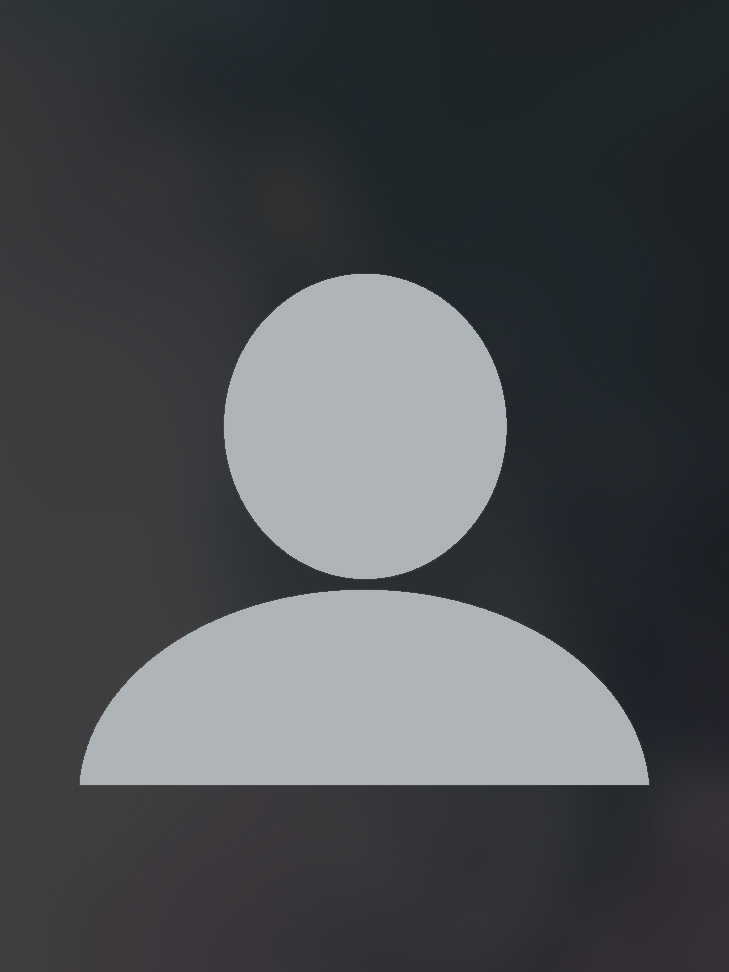
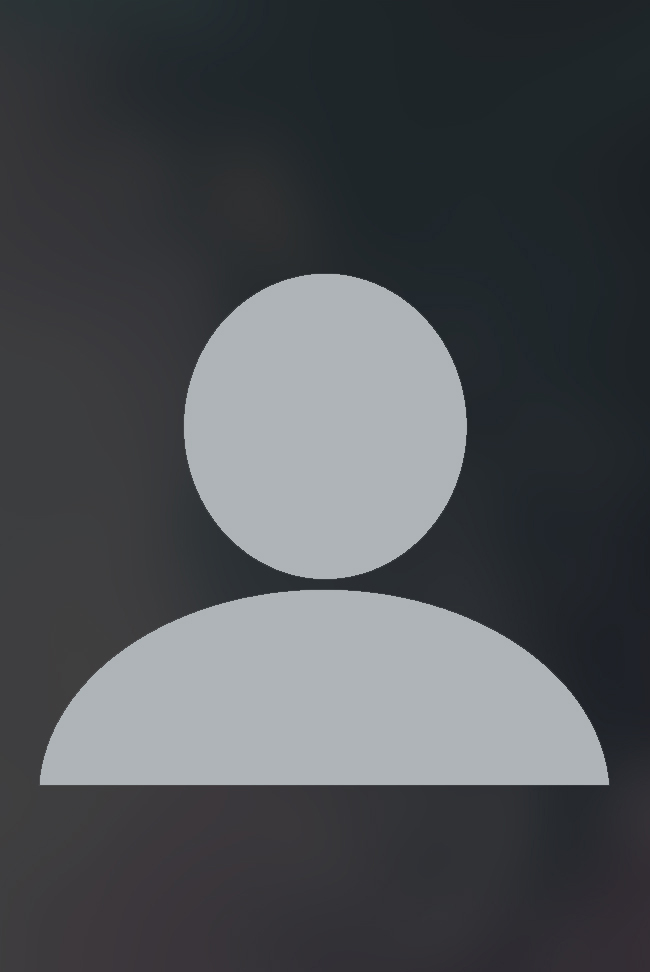
default backdrop in show details page

diff --git a/src/pages/show-details.js b/src/pages/show-details.js
@@ -92,7 +92,8 @@ class ShowDetails extends React.Component{
                   {movie.name && <h2>{movie.name}</h2>}
                 </div>
                 <div className="movie-backdrop-image">
-                  <img  src={"https://image.tmdb.org/t/p/original"+movie.backdrop_path}/>
+                  {movie.backdrop_path && <img  src={"https://image.tmdb.org/t/p/original"+movie.backdrop_path}/>}
+                  {movie.backdrop_path==null && <img src={defaultBackdrop} /> }
                 </div>
               </div>
             </Col>
